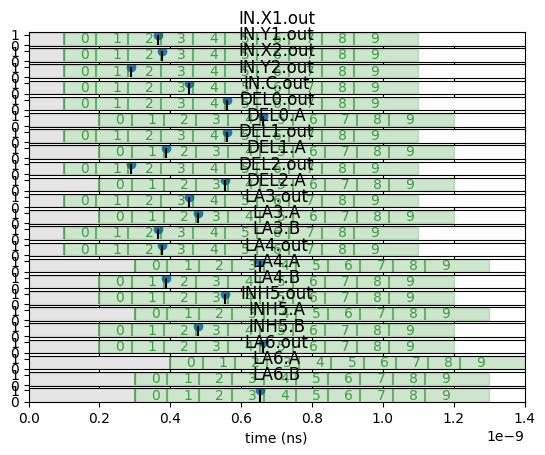
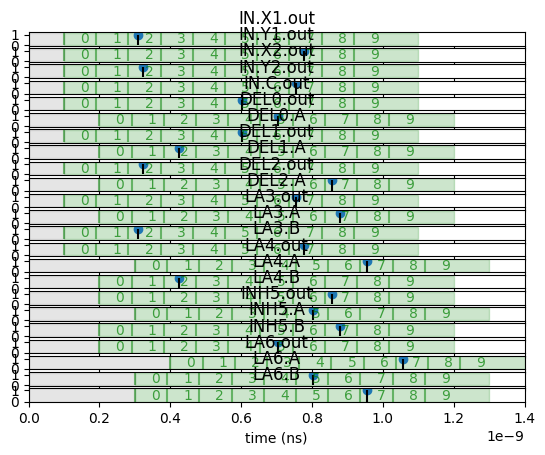
hw3 finished

diff --git a/hw3-delay-based-computing/delay_digital.py b/hw3-delay-based-computing/delay_digital.py
@@ -28,7 +28,15 @@ def and_gate(circ,A,B):
     (Ap,An) = A
     (Bp,Bn) = B
     Rp,Rn = None,None
-    raise NotImplementedError 
+    # raise NotImplementedError 
+    la = circ.add_gate(LastArrival())
+    fa = circ.add_gate(FirstArrival())
+    circ.add_wire(Ap, la, "A")
+    circ.add_wire(Bp, la, "B")
+    circ.add_wire(An, fa, "A")
+    circ.add_wire(Bn, fa, "B")
+    Rp = la
+    Rn = fa
     return (Rp,Rn)
     
 
@@ -36,15 +44,24 @@ def or_gate(circ,A,B):
     (Ap,An) = A
     (Bp,Bn) = B
     Rp,Rn = None,None
-    raise NotImplementedError 
+    # raise NotImplementedError 
+    la = circ.add_gate(LastArrival())
+    fa = circ.add_gate(FirstArrival())
+    circ.add_wire(Ap, fa, "A")
+    circ.add_wire(Bp, fa, "B")
+    circ.add_wire(An, la, "A")
+    circ.add_wire(Bn, la, "B")
+    Rp = fa
+    Rn = la
     return (Rp,Rn)
  
-
 
 def not_gate(circ,A):
     (Ap,An) = A
     Rp,Rn = None,None
-    raise NotImplementedError 
+    # raise NotImplementedError 
+    Rp = An
+    Rn = Ap
     return (Rp,Rn)
 
 
@@ -107,5 +124,12 @@ def execute_logic_circuit(dro,circ,Xbin,Ybin,Zbin):
     print("expected: %d" % (1 if reference else 0))
 
 fr,circ = build_logic_circuit()
+execute_logic_circuit(fr,circ,Xbin=0,Ybin=0,Zbin=0)
+execute_logic_circuit(fr,circ,Xbin=0,Ybin=0,Zbin=1)
+execute_logic_circuit(fr,circ,Xbin=0,Ybin=1,Zbin=0)
+execute_logic_circuit(fr,circ,Xbin=0,Ybin=1,Zbin=1)
+execute_logic_circuit(fr,circ,Xbin=1,Ybin=0,Zbin=0)
 execute_logic_circuit(fr,circ,Xbin=1,Ybin=0,Zbin=1)
+execute_logic_circuit(fr,circ,Xbin=1,Ybin=1,Zbin=0)
+execute_logic_circuit(fr,circ,Xbin=1,Ybin=1,Zbin=1)
 

diff --git a/hw3-delay-based-computing/delay_gates.py b/hw3-delay-based-computing/delay_gates.py
@@ -72,7 +72,6 @@ class FirstArrival(Gate):
         self.has_output = False
         return
         
-
     def execute(self, time, inputs):
         in0, in1 = inputs["A"], inputs["B"]
         # raise NotImplementedError
@@ -83,8 +82,8 @@ class FirstArrival(Gate):
         else: 
             return NO_PULSE
 
-class Inhibition(Gate):
 
+class Inhibition(Gate):
     def __init__(self):
         Gate.__init__(self, "INH", ["A", "B"])
         self.suppressed = False
@@ -112,19 +111,23 @@ class DigitalReadOutGate(Gate):
         self.has_pulse = False
 
     def reset(self):
-        raise NotImplementedError
+        # raise NotImplementedError
+        self.has_pulse = False
 
     def delay(self):
         return 1e-10
 
     def execute(self, time, inputs):
         inp = inputs["A"]
-        raise NotImplementedError
+        # raise NotImplementedError
+        if inp:
+            self.has_pulse = True
+        if self.has_pulse:
+            return PULSE
         return NO_PULSE
 
 
 class DelayGate(Gate):
-
     def __init__(self, delay_ns):
         Gate.__init__(self, "DEL", ["A"])
         self.delay_ns = delay_ns

diff --git a/hw3-delay-based-computing/delay_tester.py b/hw3-delay-based-computing/delay_tester.py
@@ -112,7 +112,7 @@ def test_less_than_5():
 
 def test_more_than_5():
     input_x = 2
-    input_y = 3
+    input_y = 7
     circ = DelayBasedCircuit()
     inx1 = circ.add_gate(Input("X1"))
     iny1 = circ.add_gate(Input("Y1"))
